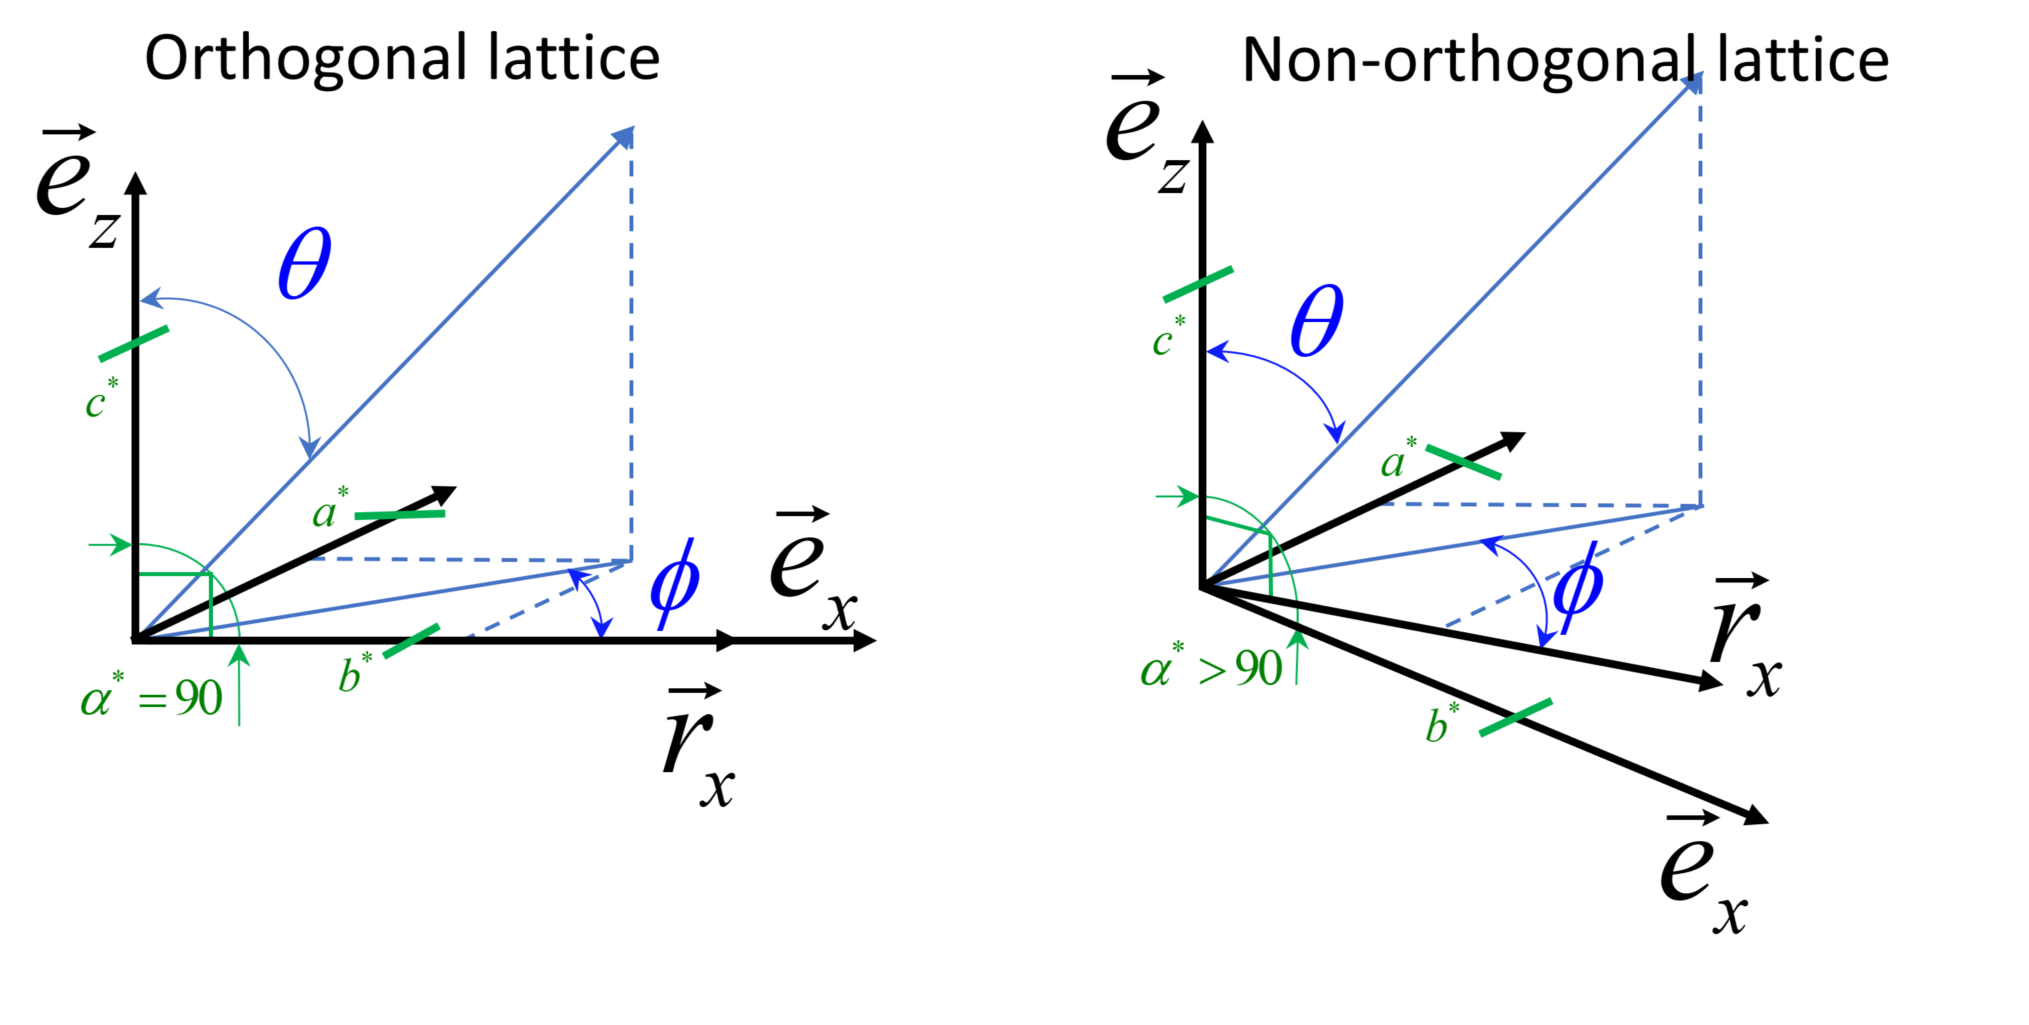
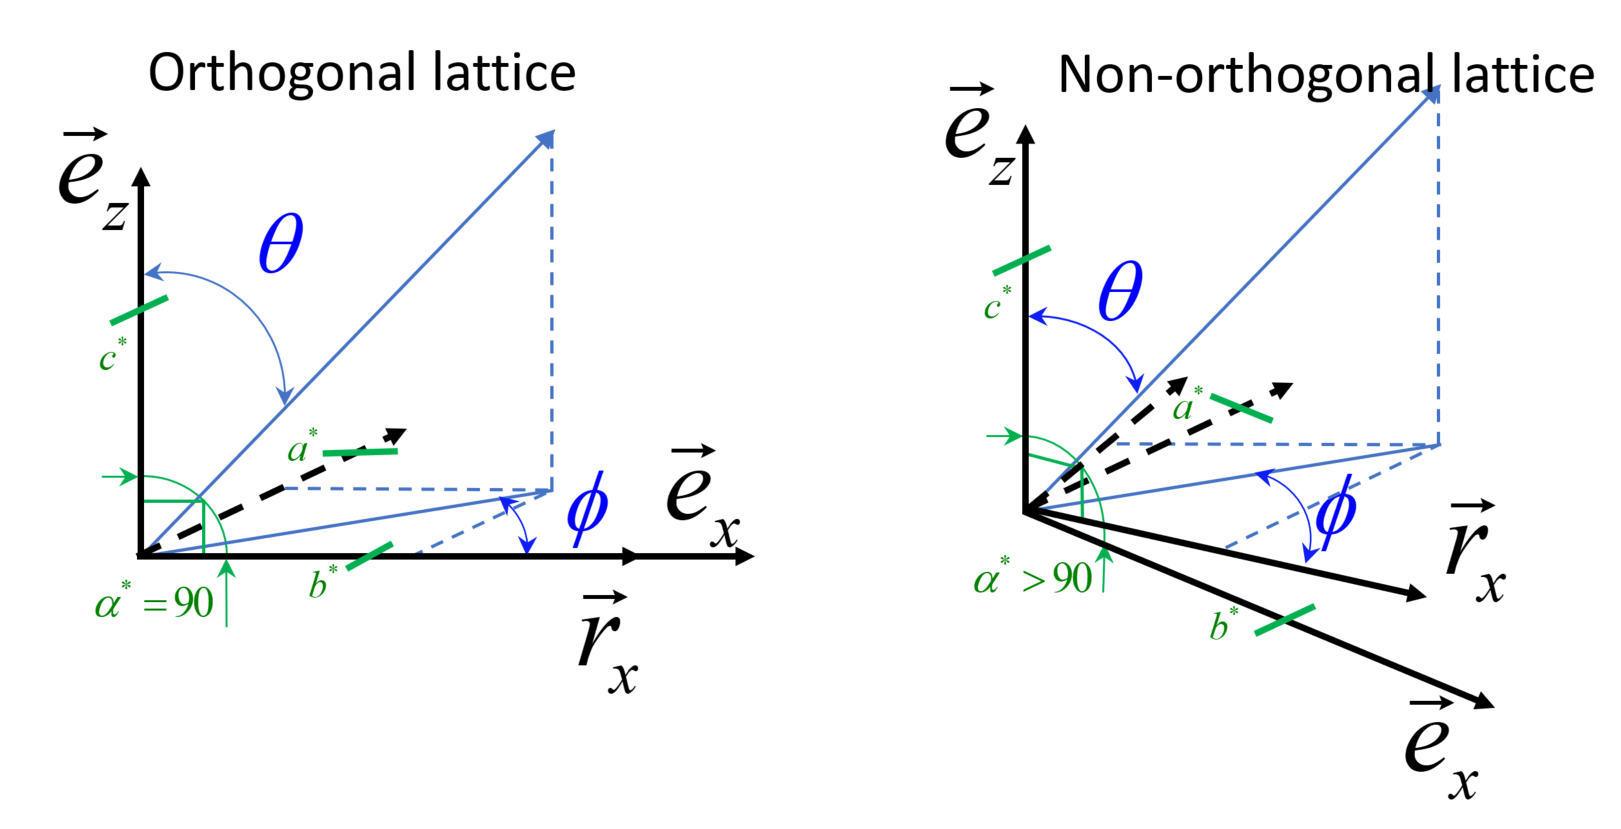
Re #1549 more accurate picture and image

diff --git a/documentation/user_docs/docs/manual/Cutting_data_of_interest_from_SQW_files_and_objects.rst b/documentation/user_docs/docs/manual/Cutting_data_of_interest_from_SQW_files_and_objects.rst
@@ -439,8 +439,7 @@ vector is build in this plane but orthogonal to :math:`e_z` vector.
    :width: 800px
    :alt: spherical coordinate system. 
 
-   Spherical coordinate system used by ``sphere_proj`` in case of orthogonal and non-orthogonal reciprocal lattice. In latter case :math:`e_x` 
-   defines the plane where x-axis (:math:`r_x` on the picture) of spherical coordinate system lies.
+   Spherical coordinate system used by ``sphere_proj`` in case of orthogonal and non-orthogonal reciprocal lattice. In latter case vectors :math:`e_x`,:math:`e_z` defines the plane where orthogonal to :math:`e_z` x-axis (:math:`r_x` on the picture) of spherical coordinate system lies.
 
 
 .. note::
